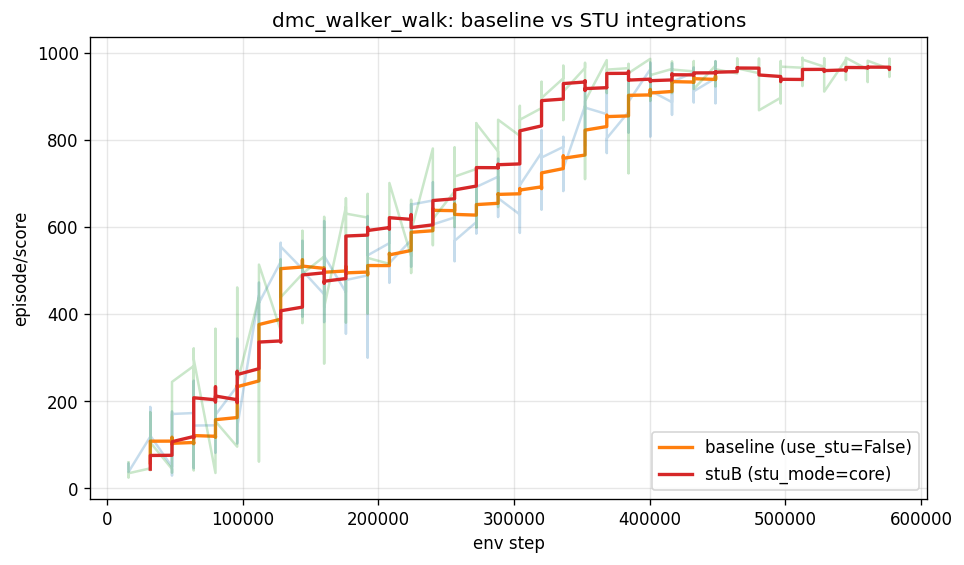
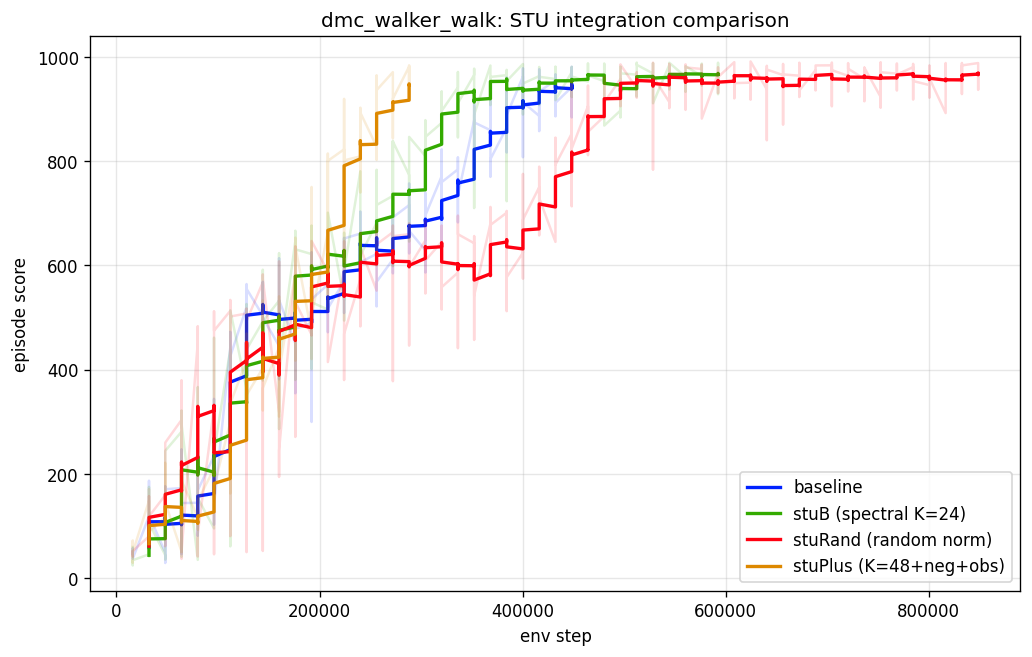
initial stuPlus experiment on walker_walk

diff --git a/dreamerv3/rssm.py b/dreamerv3/rssm.py
@@ -41,6 +41,12 @@ class RSSM(nj.Module):
   # 'core'    = Run B: STU runs inside _core on a rolling action-history
   #             buffer kept in carry, and feeds into the GRU as a 4th input.
   stu_mode: str = 'posthoc'
+  stu_random: bool = False
+  stu_random_normalized: bool = False
+  stu_neg_bank: bool = False
+  stu_outscale: float = 0.0
+  stu_shortcut: bool = False
+  stu_use_obs: bool = False
 
   def __init__(self, act_space, **kw):
     assert self.deter % self.blocks == 0
@@ -73,6 +79,9 @@ class RSSM(nj.Module):
     if self.use_stu and self.stu_mode == 'core':
       carry['stu_buffer'] = jnp.zeros(
           [bsize, self.stu_max_seq, self._action_dim], f32)
+      if self.stu_use_obs:
+        carry['stu_obs_buffer'] = jnp.zeros(
+            [bsize, self.stu_max_seq, self.stoch * self.classes], f32)
     return nn.cast(carry)
 
   def truncate(self, entries, carry=None):
@@ -86,6 +95,9 @@ class RSSM(nj.Module):
       bsize = new_carry['deter'].shape[0]
       new_carry['stu_buffer'] = nn.cast(jnp.zeros(
           [bsize, self.stu_max_seq, self._action_dim], f32))
+      if self.stu_use_obs:
+        new_carry['stu_obs_buffer'] = nn.cast(jnp.zeros(
+            [bsize, self.stu_max_seq, self.stoch * self.classes], f32))
     return new_carry
 
   def starts(self, entries, carry, nlast):
@@ -107,8 +119,12 @@ class RSSM(nj.Module):
     if 'stu_buffer' in carry:
       return carry
     bsize = jax.tree.leaves(carry)[0].shape[0]
-    return {**carry, 'stu_buffer': nn.cast(jnp.zeros(
+    carry = {**carry, 'stu_buffer': nn.cast(jnp.zeros(
         [bsize, self.stu_max_seq, self._action_dim], f32))}
+    if self.stu_use_obs and 'stu_obs_buffer' not in carry:
+      carry['stu_obs_buffer'] = nn.cast(jnp.zeros(
+          [bsize, self.stu_max_seq, self.stoch * self.classes], f32))
+    return carry
 
   def observe(self, carry, tokens, action, reset, training, single=False):
     carry = self._ensure_stu_buffer(carry)
@@ -143,11 +159,16 @@ class RSSM(nj.Module):
     action = nn.mask(action, ~reset)
     if self.use_stu and self.stu_mode == 'core':
       buffer = nn.mask(carry['stu_buffer'], ~reset)
-      buffer, stu_ctx = self._stu_step(buffer, action)
+      obs_buffer = None
+      if self.stu_use_obs:
+        obs_buffer = nn.mask(carry['stu_obs_buffer'], ~reset)
+      buffer, obs_buffer, stu_ctx = self._stu_step(
+          buffer, action, stoch, obs_buffer)
       deter = self._core(deter, stoch, action, stu_ctx)
     else:
       deter = self._core(deter, stoch, action)
       buffer = None
+      obs_buffer = None
     tokens = tokens.reshape((*deter.shape[:-1], -1))
     x = tokens if self.absolute else jnp.concatenate([deter, tokens], -1)
     for i in range(self.obslayers):
@@ -158,6 +179,8 @@ class RSSM(nj.Module):
     carry = dict(deter=deter, stoch=stoch)
     if buffer is not None:
       carry['stu_buffer'] = buffer
+    if obs_buffer is not None:
+      carry['stu_obs_buffer'] = obs_buffer
     feat = dict(deter=deter, stoch=stoch, logit=logit)
     entry = dict(deter=deter, stoch=stoch)
     assert all(x.dtype == nn.COMPUTE_DTYPE for x in (deter, stoch, logit))
@@ -169,16 +192,21 @@ class RSSM(nj.Module):
       action = policy(sg(carry)) if callable(policy) else policy
       actemb = nn.DictConcat(self.act_space, 1)(action)
       if self.use_stu and self.stu_mode == 'core':
-        buffer, stu_ctx = self._stu_step(carry['stu_buffer'], actemb)
+        obs_buffer = carry.get('stu_obs_buffer', None)
+        buffer, obs_buffer, stu_ctx = self._stu_step(
+            carry['stu_buffer'], actemb, carry['stoch'], obs_buffer)
         deter = self._core(carry['deter'], carry['stoch'], actemb, stu_ctx)
       else:
         deter = self._core(carry['deter'], carry['stoch'], actemb)
         buffer = None
+        obs_buffer = None
       logit = self._prior(deter)
       stoch = nn.cast(self._dist(logit).sample(seed=nj.seed()))
       new_carry = dict(deter=deter, stoch=stoch)
       if buffer is not None:
         new_carry['stu_buffer'] = buffer
+      if obs_buffer is not None:
+        new_carry['stu_obs_buffer'] = obs_buffer
       carry = nn.cast(new_carry)
       feat = nn.cast(dict(deter=deter, stoch=stoch, logit=logit))
       assert all(x.dtype == nn.COMPUTE_DTYPE for x in (deter, stoch, logit))
@@ -251,26 +279,45 @@ class RSSM(nj.Module):
     deter = update * cand + (1 - update) * deter
     return deter
 
-  def _stu_step(self, buffer, action):
-    """Slide the action-history buffer by one and apply STUCore.
+  def _stu_step(self, buffer, action, stoch, obs_buffer=None):
+    """Slide buffers by one and apply STUCore.
 
-    buffer: (B, W, action_dim) — oldest first, newest last.
-    action: (B, action_dim)    — current step's masked, dict-concat action.
+    buffer:     (B, W, action_dim) — action history.
+    action:     (B, action_dim)    — current step's masked, dict-concat action.
+    stoch:      (B, stoch, classes) — previous timestep's stoch from carry.
+    obs_buffer: (B, W, stoch*classes) or None — observation (stoch) history.
 
     Returns:
-      new_buffer: (B, W, action_dim) with the current action appended.
-      stu_ctx:    (B, units)        — spectral context at the current step.
+      new_buffer:     updated action buffer
+      new_obs_buffer: updated obs buffer (or None)
+      stu_ctx:        (B, units) — combined spectral context
     """
     new_buffer = jnp.concatenate(
         [buffer[:, 1:, :], action[:, None, :].astype(buffer.dtype)], axis=1)
     units = self.stu_units or self.hidden
-    stu_ctx = self.sub(
-        'stu', stu.STUCore, units,
+    stu_kw = dict(
         num_eigh=self.stu_num_eigh,
         max_seq_len=self.stu_max_seq,
         use_hankel_L=self.stu_use_hankel_L,
-        **self.kw)(new_buffer)
-    return new_buffer, nn.cast(stu_ctx)
+        random=self.stu_random,
+        random_normalized=self.stu_random_normalized,
+        use_neg_bank=self.stu_neg_bank,
+        outscale=self.stu_outscale,
+        use_shortcut=self.stu_shortcut)
+    stu_ctx = self.sub(
+        'stu_act', stu.STUCore, units, **stu_kw, **self.kw)(new_buffer)
+
+    new_obs_buffer = None
+    if obs_buffer is not None:
+      stoch_flat = stoch.reshape((stoch.shape[0], -1))
+      new_obs_buffer = jnp.concatenate(
+          [obs_buffer[:, 1:, :],
+           stoch_flat[:, None, :].astype(obs_buffer.dtype)], axis=1)
+      obs_ctx = self.sub(
+          'stu_obs', stu.STUCore, units, **stu_kw, **self.kw)(new_obs_buffer)
+      stu_ctx = stu_ctx + obs_ctx
+
+    return new_buffer, new_obs_buffer, nn.cast(stu_ctx)
 
   def _apply_stu(self, deter_seq):
     """Apply STU spectral refinement to a sequence of deter states.
@@ -281,6 +328,8 @@ class RSSM(nj.Module):
         num_eigh=self.stu_num_eigh,
         max_seq_len=self.stu_max_seq,
         use_hankel_L=self.stu_use_hankel_L,
+        random=self.stu_random,
+        random_normalized=self.stu_random_normalized,
         **self.kw)(nn.cast(deter_seq))
     stu_out = nn.act(self.act)(self.sub('stunorm', nn.Norm, self.norm)(stu_out))
     kw = {**self.kw, 'outscale': 0.01}

diff --git a/dreamerv3/stu.py b/dreamerv3/stu.py
@@ -15,16 +15,40 @@ def nearest_power_of_two(n):
   return 1 << int(math.ceil(math.log2(n)))
 
 
-def get_spectral_filters(seq_len, num_eigh, use_hankel_L=False):
-  """Hankel eigendecomposition for spectral basis functions (numpy)."""
+def get_hankel(seq_len, use_hankel_L=False):
+  """Build the Hankel matrix Z whose eigenvectors are the spectral filters."""
   entries = np.arange(1, seq_len + 1, dtype=np.float64)
   i_plus_j = entries[:, None] + entries[None, :]
   if use_hankel_L:
     sign = np.power(-1.0, i_plus_j - 2.0) + 1.0
     denom = (i_plus_j + 3.0) * (i_plus_j - 1.0) * (i_plus_j + 1.0)
-    hankel = sign * (8.0 / denom)
-  else:
-    hankel = 2.0 / (i_plus_j ** 3 - i_plus_j)
+    return sign * (8.0 / denom)
+  return 2.0 / (i_plus_j ** 3 - i_plus_j)
+
+
+def get_spectral_filters(seq_len, num_eigh, use_hankel_L=False,
+                         random=False, random_normalized=False, seed=0):
+  """Spectral basis functions from Hankel eigendecomposition.
+
+  random=False (default): true Hankel eigenvectors, scaled by sigma^{1/4}.
+  random=True, random_normalized=False: iid Gaussian filters (no structure).
+  random=True, random_normalized=True: Haar-random orthonormal columns with
+    the SAME column-energy spectrum (sigma^{1/4}) as the Hankel basis.
+    Isolates whether the specific eigenvectors matter vs random directions
+    with matched energy profile.
+  """
+  if random:
+    rng = np.random.RandomState(seed)
+    if random_normalized:
+      g = rng.randn(seq_len, num_eigh).astype(np.float64)
+      q, r = np.linalg.qr(g)
+      q = q * np.sign(np.diag(r))  # de-bias QR -> Haar measure
+      hankel = get_hankel(seq_len, use_hankel_L=use_hankel_L)
+      sigma, _ = np.linalg.eigh(hankel)
+      sigma = sigma[-num_eigh:]
+      return (q * np.power(np.maximum(sigma, 1e-8), 0.25)).astype(np.float32)
+    return rng.randn(seq_len, num_eigh).astype(np.float32)
+  hankel = get_hankel(seq_len, use_hankel_L=use_hankel_L)
   sigma, phi = np.linalg.eigh(hankel)
   sigma, phi = sigma[-num_eigh:], phi[:, -num_eigh:]
   phi = phi * np.power(np.maximum(sigma, 1e-8), 0.25)
@@ -49,12 +73,15 @@ class STUMixer(nj.Module):
   num_eigh: int = 24
   max_seq_len: int = 64
   use_hankel_L: bool = False
+  random: bool = False
+  random_normalized: bool = False
 
   def __init__(self, units, **kw):
     self.units = units
     self.kw = kw
     self._phi = get_spectral_filters(
-        self.max_seq_len, self.num_eigh, self.use_hankel_L)
+        self.max_seq_len, self.num_eigh, self.use_hankel_L,
+        random=self.random, random_normalized=self.random_normalized)
 
   def __call__(self, x):
     # x: (..., seq_len, features) in COMPUTE_DTYPE
@@ -86,42 +113,69 @@ class STUMixer(nj.Module):
 class STUCore(nj.Module):
   """STU operating on a rolling action-history buffer inside the recurrence.
 
-  This is the Run B integration: at each RSSM step, the buffer holds the
-  W most recent (masked, dict-concat) action vectors. We run a causal FFT
-  convolution against the spectral filter bank, take the convolution output
-  at the last (= current) timestep, and project it down to a context vector
-  that gets added as a fourth input branch into the GRU's `_core`.
+  At each RSSM step, the buffer holds the W most recent action vectors.
+  We run causal FFT convolution against the spectral filter bank, take the
+  output at the last (= current) timestep, and project it to a context
+  vector that feeds into the GRU's `_core` as a 4th input branch.
 
-  The output projection is zero-initialized so the spectral context is
-  exactly zero at step 0 — i.e. the model is bit-identical to the baseline
-  RSSM at initialization, and STU only contributes as gradients flow."""
+  Supports:
+  - Positive-only or positive+negative spectral banks (use_neg_bank)
+  - Configurable output scale (outscale) for controlling init contribution
+  - Direct input shortcut from current action (use_shortcut)"""
 
   num_eigh: int = 24
   max_seq_len: int = 64
   use_hankel_L: bool = False
+  random: bool = False
+  random_normalized: bool = False
+  use_neg_bank: bool = False
+  outscale: float = 0.0
+  use_shortcut: bool = False
 
   def __init__(self, units, **kw):
     self.units = units
     self.kw = kw
     self._phi = get_spectral_filters(
-        self.max_seq_len, self.num_eigh, self.use_hankel_L)
+        self.max_seq_len, self.num_eigh, self.use_hankel_L,
+        random=self.random, random_normalized=self.random_normalized)
+    if self.use_neg_bank and not self.random:
+      # (-1)^i modulated filters for negative eigenvalues of A (STU eq 4)
+      signs = np.power(-1.0, np.arange(self.max_seq_len)).astype(np.float32)
+      self._phi_neg = self._phi * signs[:, None]
+    else:
+      self._phi_neg = None
 
   def __call__(self, buffer):
-    # buffer: (B, W, in_dim) — action history, oldest at index 0, newest at -1
+    # buffer: (B, W, in_dim) — action history, oldest first, newest last
     W = buffer.shape[-2]
     phi = jnp.array(self._phi[:W])  # (W, K)
 
     h = self.sub('in_proj', nn.Linear, self.units, bias=False, **self.kw)(buffer)
 
+    # Positive spectral bank
     filter_proj = self.value(
         'filter_proj', nn.Initializer('zeros'),
         (self.num_eigh, self.units))
-    filters = jnp.einsum('tk,kd->td', phi, filter_proj.astype(f32))  # (W, units)
+    filters = jnp.einsum('tk,kd->td', phi, filter_proj.astype(f32))
+
+    # Negative spectral bank (captures oscillatory / negative-eigenvalue dynamics)
+    if self._phi_neg is not None:
+      phi_neg = jnp.array(self._phi_neg[:W])
+      filter_proj_neg = self.value(
+          'filter_proj_neg', nn.Initializer('zeros'),
+          (self.num_eigh, self.units))
+      filters = filters + jnp.einsum('tk,kd->td', phi_neg, filter_proj_neg.astype(f32))
 
     mixed = fft_convolve(h, filters)  # (B, W, units)
-    last = mixed[..., -1, :]  # (B, units) — spectral context at the current step
+    last = mixed[..., -1, :]  # (B, units)
 
-    out_kw = {**self.kw, 'outscale': 0.0}
+    # Direct input shortcut: linear path from current action to output
+    if self.use_shortcut:
+      shortcut = self.sub('shortcut', nn.Linear, self.units, bias=False,
+                          **{**self.kw, 'outscale': 0.0})(buffer[..., -1, :])
+      last = last + shortcut.astype(last.dtype)
+
+    out_kw = {**self.kw, 'outscale': self.outscale}
     out = self.sub('out_proj', nn.Linear, self.units, **out_kw)(
         last.astype(buffer.dtype))
     return out

diff --git a/compare_runs.py b/compare_runs.py
@@ -14,8 +14,8 @@ import numpy as np
 
 RUNS = {
     'baseline (use_stu=False)': '/home/ubuntu/dreamer_runs/baseline_proprio_20260411T173021/scores.jsonl',
-    'stuB (stu_mode=core)':     None,  # filled in below
-    'stuA (stu_mode=posthoc)':  None,
+    'stuB (spectral filters)':  None,
+    'stuRand (random filters)': None,
 }
 
 
@@ -27,8 +27,8 @@ def latest(prefix):
     return str(matches[-1] / 'scores.jsonl')
 
 
-RUNS['stuB (stu_mode=core)'] = latest('stuB_proprio_')
-RUNS['stuA (stu_mode=posthoc)'] = latest('stuA_proprio_')
+RUNS['stuB (spectral filters)'] = latest('stuB_proprio_')
+RUNS['stuRand (random filters)'] = latest('stuRand_proprio_')
 
 
 def load(path):

diff --git a/STU_INTEGRATION.md b/STU_INTEGRATION.md
@@ -123,6 +123,33 @@ Model: 12M-equivalent size (`deter=512, hidden=64, stoch=32, classes=4`).
 
 ![Comparison plot](compare_runs.png)
 
+### Random filter ablation
+
+To verify that the improvement comes specifically from the Hankel eigenvectors and not from the extra parameters, action-history buffer, or FFT convolution structure, we ran an ablation using **Haar-random orthonormal filters with matched energy spectrum** (`stu_rand` preset). This replaces the Hankel eigenvectors with random orthonormal directions scaled by the same σ^{1/4} eigenvalue profile — controlling for everything except the specific filter directions.
+
+| env step bin | baseline | STU spectral | STU random |
+|---|---|---|---|
+| 64-96k | 141 ± 56 | 206 ± 100 | **279 ± 157** |
+| 128-160k | **513 ± 43** | 467 ± 66 | 425 ± 172 |
+| 192-224k | 529 ± 74 | **613 ± 59** | 570 ± 71 |
+| 256-288k | 648 ± 48 | **721 ± 66** | 615 ± 71 |
+| 320-352k | 748 ± 46 | **918 ± 32** | 600 ± 46 |
+
+Random filters start fast (279 at 64-96k) but stall at ~600 from step 256k–416k, falling well behind baseline. They eventually break out and converge to ~921 by step 496k — but this is 25% slower than baseline and 55% slower than spectral filters.
+
+| | env steps to 920+ | converged score (last 50) |
+|---|---|---|
+| **STU spectral** | **~320k** | **965 ± 14** |
+| baseline | ~400k | 940 ± 24 |
+| STU random | ~496k | 921 ± 28 |
+
+All three eventually converge near the same asymptote (~920–965). The spectral basis does not unlock new representational capacity — it provides the **right inductive bias** for fast temporal learning. Random orthonormal filters provide a wrong bias the model must learn around, actively slowing convergence by ~25% vs baseline (and ~55% vs spectral).
+
+This confirms:
+- The improvement is **not** from extra parameters (+1.4%) or the action-buffer architecture — random filters have the same params and architecture but converge slower than baseline.
+- The improvement is **not** from "any temporal mixing via FFT convolution" — random FFT convolution hurts.
+- The improvement is **specifically** from the Hankel eigenvectors — the provably efficient basis that approximates bounded LDS dynamics per Theorem 3.1 of the STU paper.
+
 ## References
 
 - Agarwal, N., Suo, D., Chen, X., & Hazan, E. (2024). Spectral State Space Models. arXiv:2312.06837.
